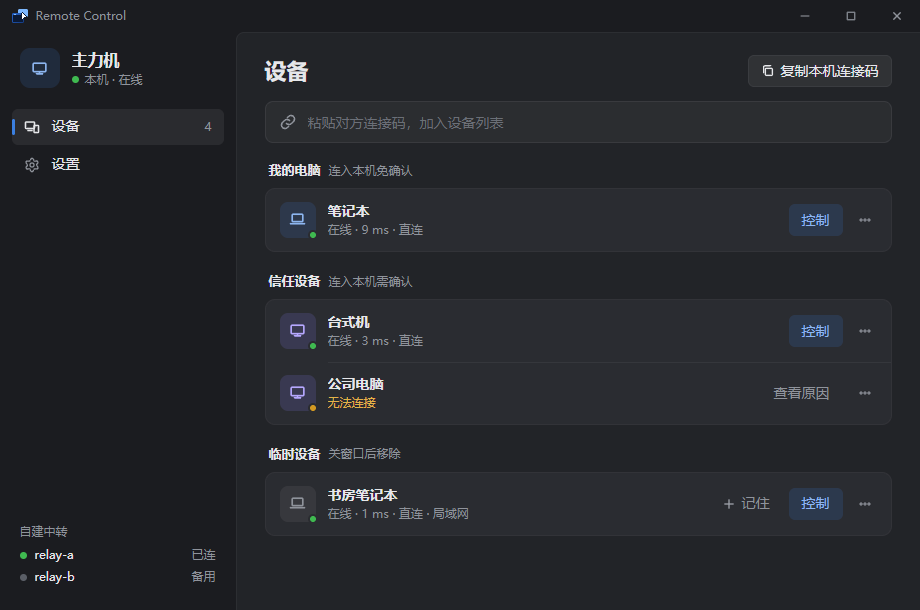
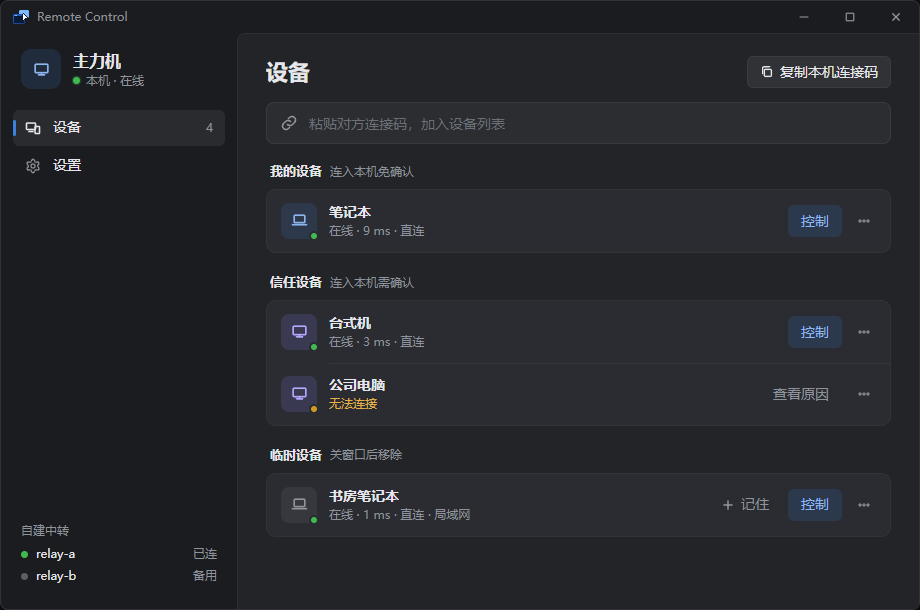
docs: add landscape Android hub screenshot and sync v0.5.0 docs

diff --git a/docs/index.html b/docs/index.html
@@ -544,7 +544,7 @@ const I18N = {
     devName_office: '公司电脑',
     devName_study: '书房笔记本',
     devName_guestNew: '新添加的笔记本',
-    kind_mine_title: '我的电脑',
+    kind_mine_title: '我的设备',
     kind_mine_note: '连入本机免确认',
     kind_trusted_title: '信任设备',
     kind_trusted_note: '连入本机需确认',
@@ -560,7 +560,7 @@ const I18N = {
     step_relay_tip: '点击左下角自建中转或左上角本机卡片可直达对应设置；双击在线设备行发起远程控制。',
     copySampleBtn: '复制测试连接码',
     toastSampleCopied: c => `已复制测试连接码 ${c}，按 Ctrl+V 或贴到顶部输入框即可试连`,
-    toastRemembered: n => `已和「${n}」互相记住；若为自己的电脑，可在 ··· 设为「我的电脑」`,
+    toastRemembered: n => `已和「${n}」互相记住；若为本人设备，可在 ··· 设为「我的设备」`,
     toastKindMine: n => `「${n}」以后连入本机免确认（如需双向免确认，请在对方电脑同样设置）`,
     toastKindTrusted: n => `「${n}」以后连入本机需确认`,
     delTitle: n => `删除「${n}」？`,
@@ -568,7 +568,7 @@ const I18N = {
     cancel: '取消',
     del: '删除',
     toastDeleted: n => `已删除「${n}」，对方那边也删掉了本机`,
-    noteAutoAccept: '对方已将本机设为「我的电脑」，免确认直接连入',
+    noteAutoAccept: '对方已将本机设为「我的设备」，免确认直接连入',
     noteAllowed: n => `「${n}」允许了控制`,
     toastWaitTimeout: n => `「${n}」超时未响应`,
     countdown: s => `${s} 秒没人点就算拒绝`,
@@ -685,7 +685,7 @@ const I18N = {
     startAtBootDesc: '系统启动后自动在后台保持在线',
     svcRequired: '安装后台服务后可用',
     allowLock: '允许锁屏控制',
-    allowLockDesc: '仅限「我的电脑」免确认连入',
+    allowLockDesc: '仅限「我的设备」免确认连入',
     keepAwake: '接通电源时阻止睡眠',
     keepAwakeDesc: '保持在线，显示器仍按系统设置熄屏',
     secAI: 'AI 集成',

diff --git a/README.md b/README.md
@@ -19,10 +19,11 @@
 
 - **AI Agent 跨设备控制**：一键安装 Skill（`~/.claude/skills`、`~/.agents/skills`），供 Claude Code / Codex 调用 `devices`、`exec`、`cp` 操作其它 Windows 电脑，直接复用大厅连接与权限。
 - **远程桌面**：GPU 硬件编解码与 DXGI 渲染（最高 144 fps、4:4:4 文字清晰模式、FEC 抗丢包）；支持多显示器切换、剪贴板同步（文字/图片/文件/文件夹）、`Ctrl+Alt+Del` 及锁屏控制。
-- **Android 控制端**：手机 / 平板控制电脑，触控板与直触两种模式、本地缩放、完整电脑键盘与组合键，见 [Android 使用指南](docs/android.md)。
+- **Android 控制端（约 5.6 MB）**：手机 / 平板控制电脑，连上先看实时桌面预览与运行窗口导播台，支持触控板与直触双模式、镂空滚轮、放大摇杆与完整电脑键盘，见 [Android 使用指南](docs/android.md)。
 - **远程声音**：支持 Opus 与 24-bit PCM 无损两档，可独立调节音量或一键静音被控端扬声器。
 - **远程终端与文件传输**：无需开启桌面画面，直接通过 CLI 进入远程 PowerShell、执行命令或互传文件。
-- **私有中转（可选）**：单 Docker 镜像，内置自签证书，无需域名，仅转发自有设备的端到端加密流量。
+- **网络自检与私有中转（可选）**：内置一键 **网络诊断**（`设置 → 网络诊断` 或 `remote-control doctor`）排查 IPv6 / NAT / 防火墙 / 中转状态；受限网络可用单 Docker 镜像自建中转（内置自签证书，仅转发端到端加密流量）。
+- **极致轻量与无打扰更新**：Windows 单 `.exe` 约 21 MB，免安装即用；支持在「设置 → 检查更新」手动更新（GitHub + CNB 国内源），平时不弹提示。
 
 ---
 
@@ -51,7 +52,7 @@
 | 防火墙屏蔽所有 UDP                      | **需自建中转**（自动走 TCP） |
 
 - **公网辅助连接**：默认使用 iroh 官方免费节点交换地址协助打洞，**不转发画面与键鼠**（可在「设置 → 网络与发现 → 公网辅助连接」关闭）。
-- **私有中转**：仅在无法直连时负责转发端到端加密流量；部署前可先尝试开启路由器 IPv6（手机热点、多数校园网带 IPv6，公司内网通常没有）。
+- **私有中转**：仅在无法直连时负责转发端到端加密流量；部署前可先在 **「设置 → 网络诊断」**（或命令行运行 `remote-control doctor`）一键检查 IPv6、防火墙、代理网卡与中转连通性，支持一键修复与脱敏复制诊断报告。
 
 ---
 
@@ -63,22 +64,29 @@
 
 - **局域网**：在「临时设备」中点 **「控制」**，对方允许后建立连接。
 - **跨网络**：对方点 **「复制本机连接码」**，主控端粘贴到顶部输入框（或直接 `Ctrl+V`）。连接码 1 小时内单次有效。
-- **常用设备**：点临时设备上的 **「记住」** 互加为「信任设备」；在 `···` 菜单中设为 **「我的电脑」** 后双击即可免确认直连。
+- **常用设备**：点临时设备上的 **「记住」** 互加为「信任设备」；在 `···` 菜单中设为 **「我的设备」** 后双击即可免确认直连。
 
-### 2. 用手机控制电脑
+### 2. 用手机 / 平板控制电脑
 
-从 [Releases](https://github.com/Peteroooooooo/remote-control/releases) 下载最新 `remote-control.apk` 安装（Android 10+，arm64）。同一局域网的电脑会自动出现，点一下即可连接；跨网络时点右上角 **+** 粘贴电脑的连接码。手势、滚轮、键盘用法见 [Android 使用指南](docs/android.md)。
+从 [Releases](https://github.com/Peteroooooooo/remote-control/releases)（或国内镜像 [CNB](https://cnb.cool/peteroooooooo/remote-control/-/releases)）下载最新 `remote-control.apk` 安装（约 5.6 MB，Android 10+，arm64）。同一局域网的电脑会自动出现，点一下即可连接；跨网络时点右上角 **+** 粘贴电脑的连接码。
+
+- 连上先进入**电脑导播台**：上方显示实时桌面缩略图，下方列出正在运行的窗口卡片——点一次把窗口切到前台，再点一次全屏进入。
+- 全屏支持**触控板 / 直触**双模式、右下角**镂空滚轮**、放大后左下角**摇杆**与**完整电脑键盘**；具体手势见 [Android 使用指南](docs/android.md)。
+
+<p align="center">
+  <img src="docs/images/android-hub.jpg" width="760" alt="Android 电脑导播台" />
+</p>
 
 ### 3. 后台服务
 
 在 **「设置 → 后台服务 → 安装」** 中启用（需管理员权限）：
 
-- 支持开机自启、关闭窗口后台常驻，以及锁屏 / 登录界面 / UAC 弹窗控制（锁屏控制仅对「我的电脑」生效）。
+- 支持开机自启、关闭窗口后台常驻，以及锁屏 / 登录界面 / UAC 弹窗控制（锁屏控制仅对「我的设备」生效）。
 - 服务直接运行当前 `.exe`，配置与密钥保存在 `%APPDATA%\remote-control`；托盘右键「退出」可停止服务并下线。
 
 ### 4. AI Agent 与 CLI
 
-在主控端打开 **「设置 → AI 集成 → 配置 AI Skills → 安装」**，即可让 Claude Code / Codex 自动调用 CLI 跨设备执行命令与传输文件（「我的电脑」免确认，「信任设备」首次弹窗确认，已装后台服务时以管理员权限运行）。
+在主控端打开 **「设置 → AI 集成 → 配置 AI Skills → 安装」**，即可让 Claude Code / Codex 自动调用 CLI 跨设备执行命令与传输文件（「我的设备」免确认，「信任设备」首次弹窗确认，已装后台服务时以管理员权限运行）。
 
 下面的 `remote-control` 指程序本身。它不会自动加入 PATH，在命令行里请写 exe 的完整路径（PowerShell 中路径带空格时写成 `& "D:\路径\remote-control.exe" devices`），或先进入 exe 所在文件夹再用 `.\remote-control.exe`。
 
@@ -102,6 +110,7 @@ remote-control cp .\report.pdf laptop:Desktop   # 上传文件或文件夹（参
 | `set <设置> <值> …` | 改设置，见[第 6 节](#6-命令行配置与批量部署) |
 | `install-service` / `uninstall-service` | 安装 / 卸载后台服务（需管理员） |
 | `service-status` | 查看后台服务是否在运行 |
+| `doctor` | 诊断网络连通性、IPv6、防火墙与中转状态 |
 | `update` | 检查并安装新版本 |
 | `id` | 显示本机设备 ID |
 | `host` | 不开窗口，只在后台保持在线、等待被连 |

diff --git a/README.en.md b/README.en.md
@@ -19,10 +19,11 @@
 
 - **Cross-Device Control for AI Agents**: One-click Skill install (`~/.claude/skills`, `~/.agents/skills`) lets Claude Code and Codex call `devices`, `exec`, and `cp` on your other Windows PCs, reusing the lobby's connections and device permissions.
 - **Remote Desktop**: GPU hardware encoding/decoding and DXGI rendering (up to 144 fps, 4:4:4 crisp text mode, FEC packet-loss recovery); supports multi-monitor switching, clipboard sync (text, images, files, folders), `Ctrl+Alt+Del`, and lock-screen control.
-- **Android Controller**: Control your PCs from a phone or tablet with trackpad and direct-touch modes, local zoom, and a full PC keyboard with modifier keys. See the [Android guide](docs/android.en.md).
+- **Android Controller (~5.6 MB)**: Control your PCs from a phone or tablet via a live desktop & running-windows hub, trackpad and direct-touch modes, scroll wheel, zoomed pan joystick, and full PC keyboard. See the [Android guide](docs/android.en.md).
 - **Remote Audio**: Supports Opus and lossless 24-bit PCM modes with independent volume control and one-click remote speaker mute.
 - **Remote Terminal & File Transfer**: Drop straight into remote PowerShell, run commands, or transfer files/folders via CLI without starting a desktop stream.
-- **Private Relay (Optional)**: Single Docker image with built-in self-signed TLS, no domain required, forwarding end-to-end encrypted traffic exclusively for your devices.
+- **Network Doctor & Private Relay (Optional)**: Built-in **Network Diagnostics** (`Settings → Network Diagnostics` or `remote-control doctor`) checks IPv6, NAT, firewall, and relay health with one-click fixes; single Docker image self-hosted relay with built-in self-signed TLS for restricted networks.
+- **Ultra-Lightweight & Quiet Updates**: ~21 MB single portable `.exe` on Windows; manual in-app update checks in **Settings** (GitHub & CNB mirrors) with zero background popups.
 
 ---
 
@@ -51,7 +52,7 @@
 | Firewall blocks all UDP                              | **Requires private relay** (via TCP) |
 
 - **Public Relay Assist**: Uses free public iroh nodes solely to exchange addresses for hole-punching — **never forwards screen video or input** (can be disabled in **Settings → Network & Discovery → Public Relay Assist**).
-- **Private Relay**: Forwards end-to-end encrypted traffic only when direct P2P fails. Try enabling IPv6 on your router first before deploying a relay (mobile hotspots and many campus networks have IPv6; most corporate LANs do not).
+- **Private Relay & Diagnostics**: Forwards end-to-end encrypted traffic only when direct P2P fails. Before deploying a relay, run **Settings → Network Diagnostics** (or `remote-control doctor`) to check IPv6, firewall rules, TUN adapters, and relay reachability, with one-click fixes and sanitized report export.
 
 ---
 
@@ -65,9 +66,16 @@ Run `remote-control.exe` on both PCs:
 - **Across Networks**: Have the other side click **Copy Connection Code** and paste it into the top input bar (or press `Ctrl+V`). Codes are single-use and valid for 1 hour.
 - **Frequent Devices**: Click **Remember** on a temporary device to add each other as **Trusted Devices**; set a device as **My Devices** in the `···` menu for prompt-free connections on double-click.
 
-### 2. Control a PC from Your Phone
+### 2. Control a PC from Your Phone / Tablet
 
-Install the latest `remote-control.apk` from [Releases](https://github.com/Peteroooooooo/remote-control/releases) (Android 10+, arm64). PCs on the same LAN appear automatically; tap one to connect. Across networks, tap **+** and paste the PC's connection code. Gestures, scroll wheel, and keyboard usage are explained in the [Android guide](docs/android.en.md).
+Install the latest `remote-control.apk` (~5.6 MB, Android 10+, arm64) from [Releases](https://github.com/Peteroooooooo/remote-control/releases) (or [CNB](https://cnb.cool/peteroooooooo/remote-control/-/releases)). PCs on the same LAN appear automatically; tap one to connect. Across networks, tap **+** and paste the PC's connection code.
+
+- After connecting, you land on the **PC Hub**: live desktop preview at the top and running window cards below — tap once to bring a window to the front, tap again to open full screen.
+- Full screen offers **Trackpad / Direct-Touch** modes, a bottom-right **scroll wheel**, zoomed pan **joystick**, and a **full PC keyboard**. See the [Android guide](docs/android.en.md) for gestures.
+
+<p align="center">
+  <img src="docs/images/android-hub.jpg" width="760" alt="Android PC Hub" />
+</p>
 
 ### 3. Background Service
 
@@ -102,6 +110,7 @@ All commands (`remote-control <command> --help` shows each one's options):
 | `set <setting> <value> …` | Change settings, see [section 6](#6-command-line-setup--batch-deployment) |
 | `install-service` / `uninstall-service` | Install / remove the background service (admin) |
 | `service-status` | Show whether the background service is running |
+| `doctor` | Diagnose network connectivity, IPv6, firewall, and relay status |
 | `update` | Check for and install a new version |
 | `id` | Show this device's ID |
 | `host` | Stay online without the window, waiting to be connected to |

diff --git a/docs/android.en.md b/docs/android.en.md
@@ -27,6 +27,10 @@ You land on the PC's home page (hub): the top bar shows the PC name with connect
 - Tap a window card once to bring it to the front in the preview; tap it again (or double-tap) to open it full screen.
 - The system back gesture returns from full screen to the home page. On the home page, back once more shows a hint; swipe again to disconnect and return to the PC list.
 
+<p align="center">
+  <img src="images/android-hub.jpg" width="760" alt="Android PC Hub" />
+</p>
+
 ## 3. The capsule at the top of full screen
 
 | Button | Action |

diff --git a/docs/android.md b/docs/android.md
@@ -25,6 +25,10 @@
 - 单击窗口卡片：把该窗口切到前台并在桌面预览中查看；再次点击（或双击）直接全屏进入。
 - 全屏里系统返回手势回到主页；在主页再返回一次会提示，再滑一次断开并回到电脑列表。
 
+<p align="center">
+  <img src="images/android-hub.jpg" width="760" alt="Android 电脑导播台" />
+</p>
+
 ## 3. 全屏顶部的胶囊
 
 | 按钮 | 作用 |
